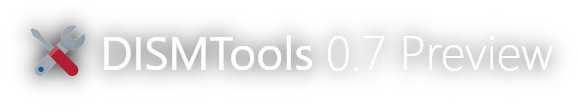
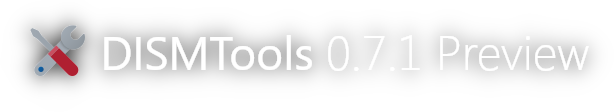
Prepare for next version

Changed region(s): [[0.0311, 0.2143, 0.5917, 0.6964], [0.6851, 0.3214, 0.9654, 0.6429]]

diff --git a/README.md b/README.md
@@ -276,9 +276,9 @@ If you want to contribute to this project, you can do so in many ways:
 
 We continue the development of the next version in the Preview branch. To go to it, select "dt_preview" from the branch list. Commits are done every day, and new builds are released every 2 weeks.
 
-However, if you want to download the latest release AS SOON AS the project is built with new changes, you can download the [nightly installer](https://github.com/CodingWonders/dt-nightly-installers/raw/refs/heads/main/dt_prerel_2582_relcndid/dt_setup.exe).
+However, if you want to download the latest release AS SOON AS the project is built with new changes, you can download the [nightly installer](https://github.com/CodingWonders/dt-nightly-installers/raw/refs/heads/main/dt_prerel_2591/dt_setup.exe).
 
-**NOTE:** this branch contains release candidate builds of DISMTools 0.7, and will be deleted once this version gets published as a stable release
+<!-- **NOTE:** this branch contains release candidate builds of DISMTools 0.7, and will be deleted once this version gets published as a stable release -->
 
 ## Stay in touch
 
